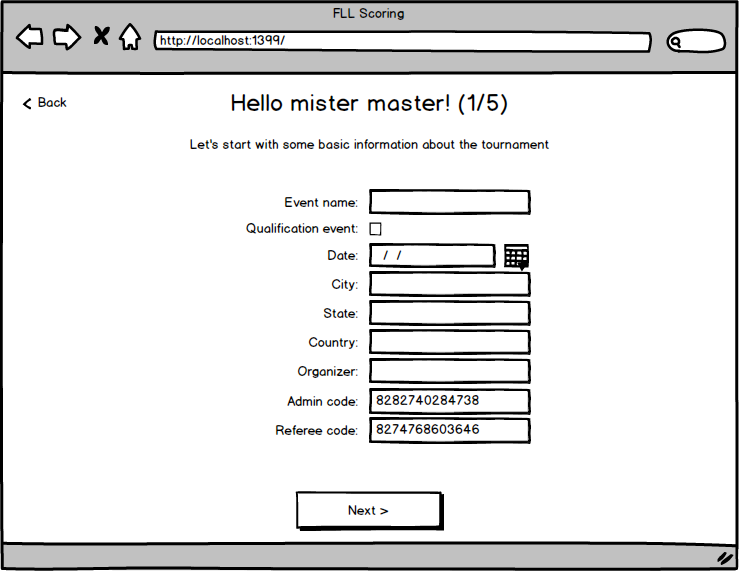
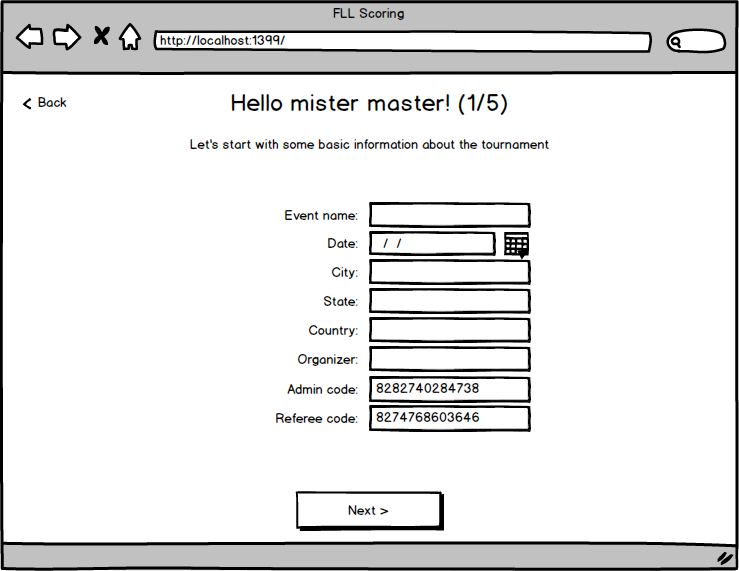
Described wizard flow in interaction, updated one mockup

Changed region(s): [[0.3112, 0.3275, 0.7158, 0.8039]]

diff --git a/docs/user_interface/interaction.md b/docs/user_interface/interaction.md
@@ -15,3 +15,56 @@ The system has three modes:
 The user will start with a choice between these three.
 
 ![](https://raw.githubusercontent.com/FirstLegoLeague/fllscoring/master/docs/user_interface/mockups/PNGs/01.%20Apptype%20choice.png)
+
+# 2. Setup wizard
+In order to make the system easy to use, a wizard is provided to setup the tournament. This wizards contains five steps, after which the whole system is ready for use. The wizard contains of:
+* **Tournament information**
+* **Team information**
+* **Team information**
+* **Round information**
+* **Referee information**
+
+After completing the wizard an option is presented to print out scoring forms.
+
+## 2.1. Tournament information
+First up is tournament information, where the user is asked to provide basic information about the tournament. With this information eventual score output is enriched, and can also be used as a history reference.
+![](https://raw.githubusercontent.com/FirstLegoLeague/fllscoring/master/docs/user_interface/mockups/PNGs/02.%20Wizard%20-%20Tournament.png)
+
+The following information is requested:
+* Tournament name
+* Date
+* City
+* State
+* Country
+* Organizer - The organisation who organizes the event
+* Admin code - This value will be auto generated, and can be changed by the user. Scorekeepers need this code to authentice themselves to the system.
+* Referee code - This value will be auto generated, and can be changed by the user. Referees need this code to authentice themselves to the system.
+
+## 2.2. Team information
+Every tournament needs teams, which can be entered in this screen. There will also be an Excel import feature, which is not yet represented in the mockups.
+
+![](https://raw.githubusercontent.com/FirstLegoLeague/fllscoring/master/docs/user_interface/mockups/PNGs/03.%20Wizard%20-%20Teams.png)
+
+Of each team the following information is requested:
+* ID
+* Name
+* City
+* State (not required)
+* Country
+
+## 2.3. Round information
+Here the user can setup the rounds for the robot-competition. Each round has a name and a type, both are required. If a rounds type is set to 'Qualifying' it will be used in the ranking.
+
+![](https://raw.githubusercontent.com/FirstLegoLeague/fllscoring/master/docs/user_interface/mockups/PNGs/04.%20Wizard%20-%20Rounds.png)
+
+## 2.4. Table information
+Each match is played on a table, and thus the system needs to be aware of them. Only input needed is the name of the table.
+![](https://raw.githubusercontent.com/FirstLegoLeague/fllscoring/master/docs/user_interface/mockups/PNGs/05.%20Wizard%20-%20Tables.png)
+
+## 2.5. Table information
+Referees judge the robot competitions, and are the last data needed for a complete score form. Just like tables the system only needs a name for the referees.
+![](https://raw.githubusercontent.com/FirstLegoLeague/fllscoring/master/docs/user_interface/mockups/PNGs/06.%20Wizard%20-%20Referees.png)
+
+## 2.6. Wizard completed
+When all five screens are provided with data, the wizard is finished and the system is setup for the tournament. Here the user is also presented with the option to print out score forms, when the robot matches are judged using paper forms.
+![](https://raw.githubusercontent.com/FirstLegoLeague/fllscoring/master/docs/user_interface/mockups/PNGs/07.%20Wizard%20-%20Completed.png)
